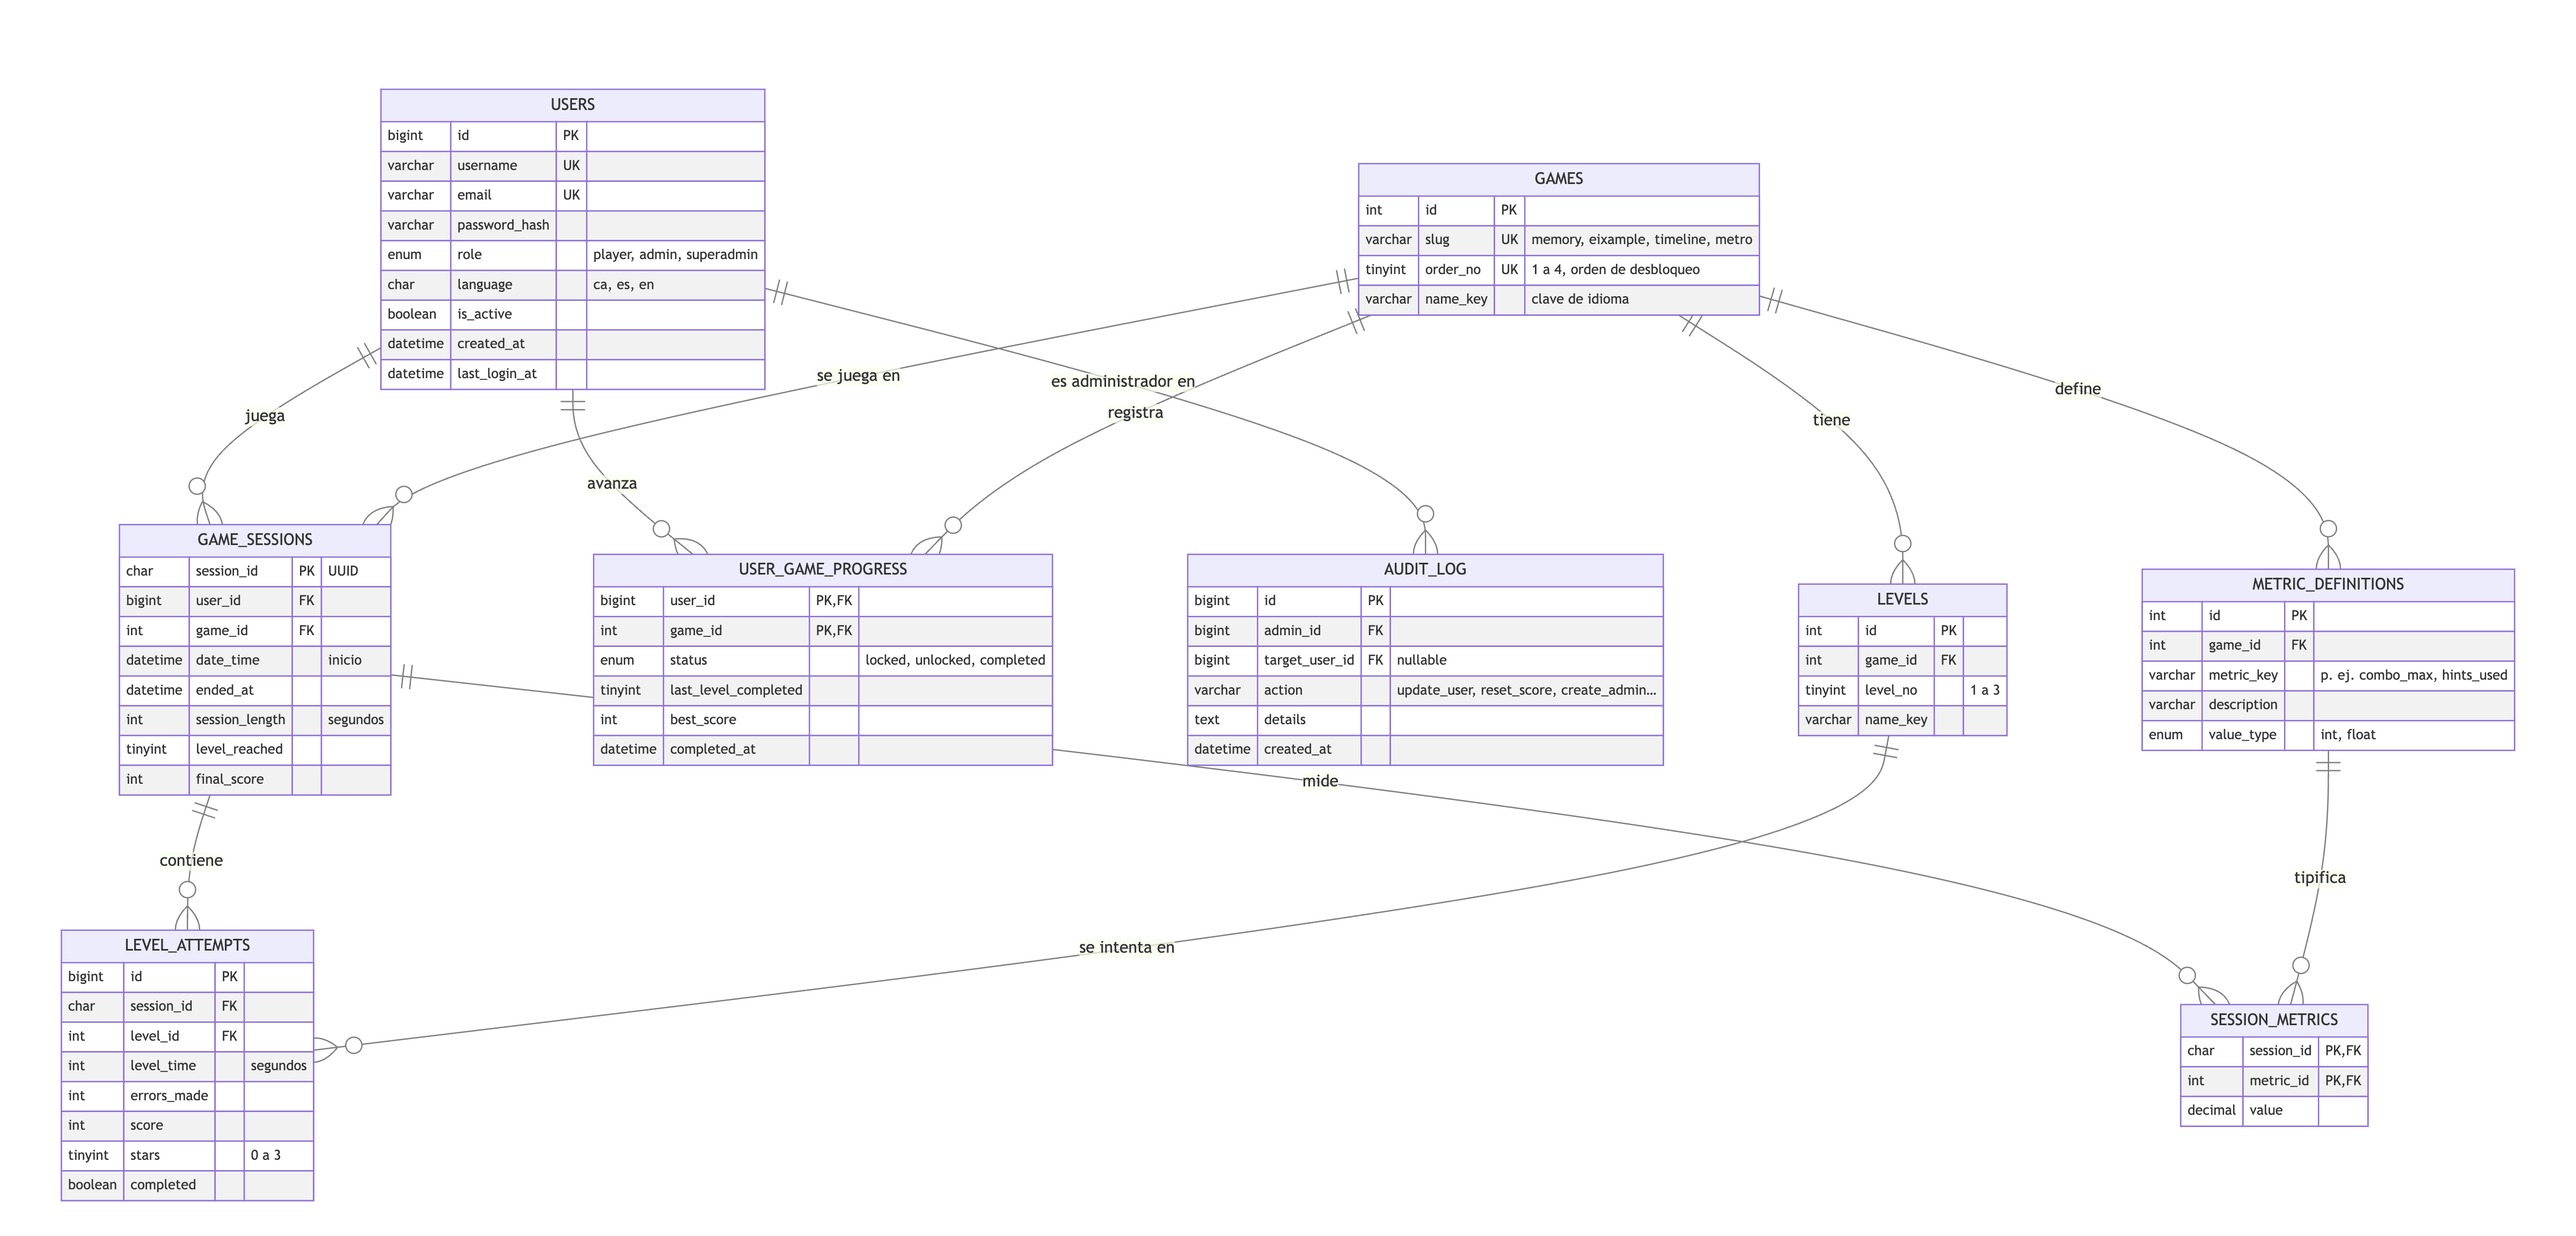
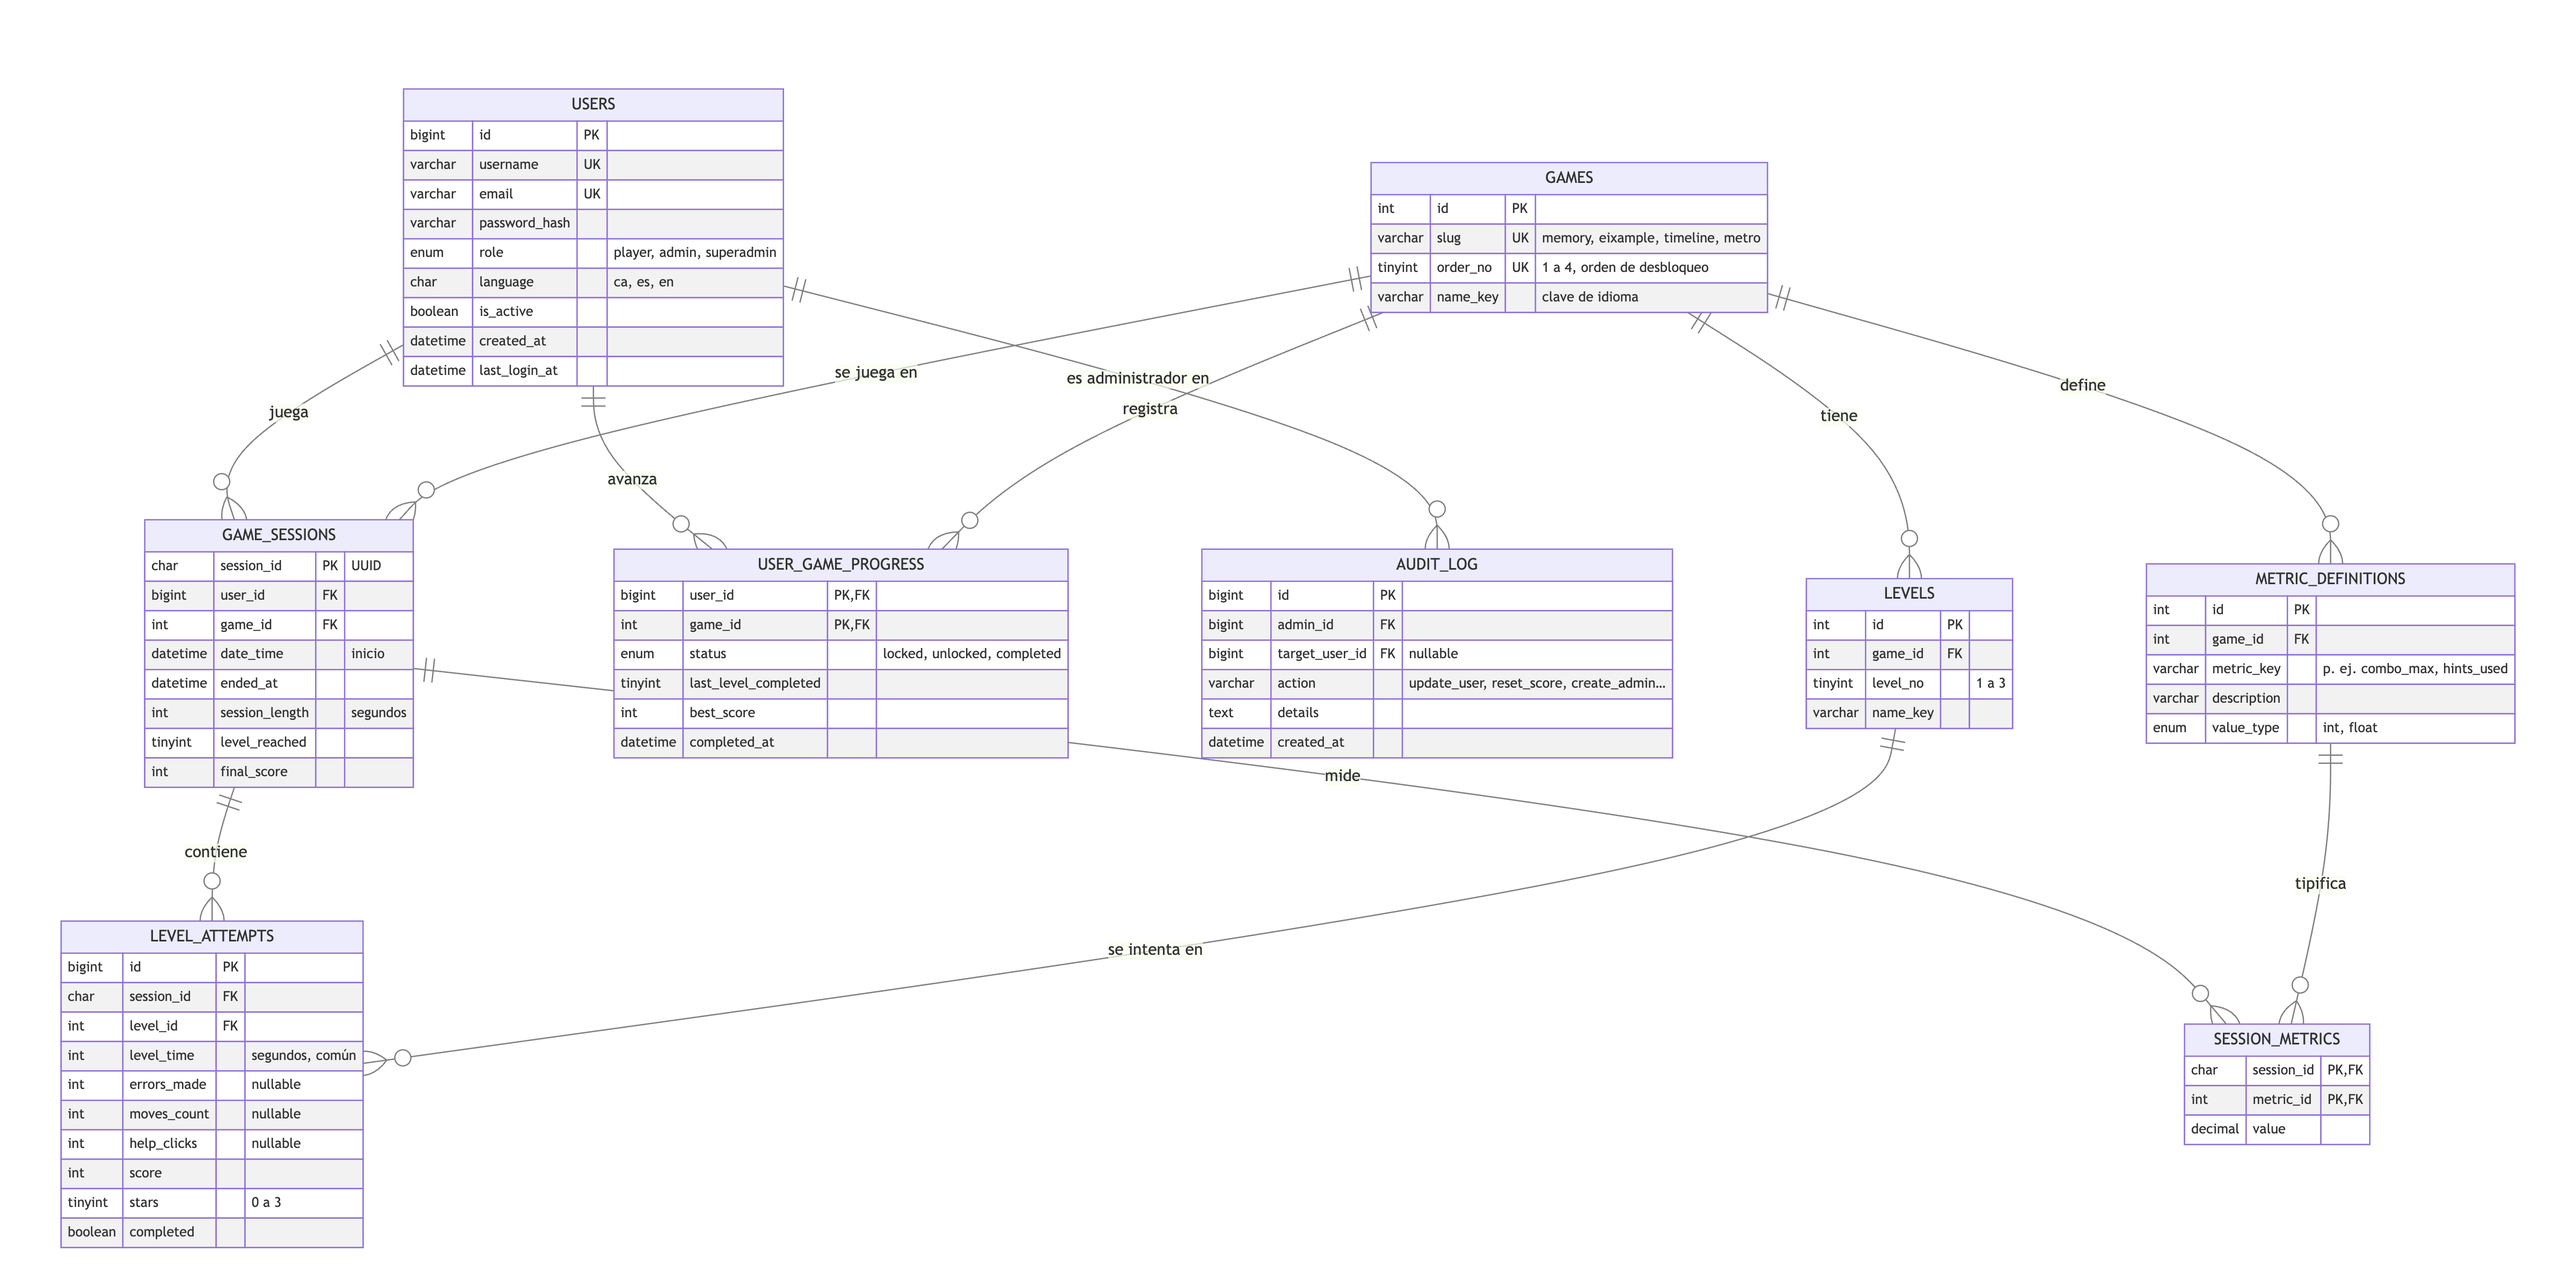
Métricas comunes en la BD común y métricas individuales aparte

diff --git a/docs/modelo-relacional-bd.md b/docs/modelo-relacional-bd.md
@@ -65,8 +65,10 @@ erDiagram
         bigint id PK
         char session_id FK
         int level_id FK
-        int level_time "segundos"
-        int errors_made
+        int level_time "segundos, común"
+        int errors_made "nullable"
+        int moves_count "nullable"
+        int help_clicks "nullable"
         int score
         tinyint stars "0 a 3"
         boolean completed
@@ -101,30 +103,38 @@ erDiagram
 | `levels` | Niveles internos de cada juego (3 por juego) | FK `game_id`; único (`game_id`, `level_no`) |
 | `user_game_progress` | Qué juegos tiene bloqueados, abiertos o superados cada usuario, y por qué nivel va (retomar donde lo dejó) | PK compuesta (`user_id`, `game_id`) |
 | `game_sessions` | Una fila por partida: las 4 métricas obligatorias (`username` sale de `users`, más `session_id`, `date_time`, `session_length`) | PK `session_id` |
-| `level_attempts` | Resultado de cada nivel dentro de una sesión: tiempo, errores, puntos, estrellas | FK `session_id`, `level_id` |
-| `metric_definitions` | Catálogo de métricas propias de cada juego (mínimo 4 por juego) | FK `game_id`; único (`game_id`, `metric_key`) |
-| `session_metrics` | Valor de cada métrica propia en cada sesión | PK compuesta (`session_id`, `metric_id`) |
+| `level_attempts` | **Métricas comunes** de cada nivel dentro de una sesión: tiempo, errores, movimientos, ayudas, puntos y estrellas. Las que un juego no usa quedan a `NULL` | FK `session_id`, `level_id` |
+| `metric_definitions` | Catálogo de las **métricas individuales** que solo tiene un juego | FK `game_id`; único (`game_id`, `metric_key`) |
+| `session_metrics` | Valor de cada métrica individual en cada sesión | PK compuesta (`session_id`, `metric_id`) |
 | `audit_log` | Quién (administrador) cambió qué usuario o puntuación y cuándo | FK `admin_id`, `target_user_id` |
 
+## Métricas: comunes en la BD común, individuales aparte
+Salen de las fichas de cada juego en `propostes/`. Las que se repiten entre juegos van en columnas de tablas comunes; las que solo tiene un juego van en `session_metrics`.
+
+| Métrica | Memory | Eixample | Línea del tiempo | Metro | Dónde va |
+|---|:-:|:-:|:-:|:-:|---|
+| `level_time` | ✔ | ✔ | ✔ | ✔ | `level_attempts` (común) |
+| `level_reached` | ✔ | | | ✔ | `game_sessions` (común; se puede calcular en todos los juegos) |
+| `final_score` | | | ✔ | ✔ | `game_sessions` (común; Memory y Eixample también puntúan) |
+| `errors_made` | ✔ | | ✔ | | `level_attempts` (común, `NULL` si no aplica) |
+| `moves_count` | | ✔ | | ✔ | `level_attempts` (común, `NULL` si no aplica) |
+| `help_clicks` | | ✔ | ✔ (`hints_used`) | ✔ | `level_attempts` (común) |
+| `attempts` | ✔ | | | | `session_metrics` (individual) |
+| `puzzles_solved` | | ✔ | | | `session_metrics` (individual) |
+
+Dos ajustes a hablar con el equipo:
+- **`hints_used` (Raúl) = `help_clicks`** (Roger y Alex): es la misma idea, consultar una ayuda. Propongo usar `help_clicks` en los cuatro para poder compararlos.
+- Cada juego sigue necesitando **al menos 4 métricas propias** además de las 4 de sesión. Con esta estructura se cumple: Memory (`attempts`, `errors_made`, `level_reached`, `level_time`), Eixample (`moves_count`, `help_clicks`, `puzzles_solved`, `level_time`), Línea del tiempo (`errors_made`, `level_time`, `help_clicks`, `final_score`) y Metro (`level_reached`, `level_time`, `moves_count`, `help_clicks`, `final_score`). Si un juego necesita otra (por ejemplo `combo_max` en Memory), se da de alta en `metric_definitions` sin tocar las tablas.
+
 ## Decisiones de diseño
-1. **Métricas propias en filas (`session_metrics`)** y no en columnas. Cada juego tiene métricas distintas (`combo_max`, `hints_used`, `help_clicks`, `moves_count`…) y así no hay una tabla con 20 columnas casi vacías. Para la vista «Mètriques» se puede pasar a formato ancho con un `PIVOT` o con Pandas.
-2. **Métricas comunes** (`level_time`, `level_reached`, `final_score`) como columnas, porque los cuatro juegos las tienen y se consultan siempre.
+1. **Una sola base de datos para los 4 juegos** y las métricas repetidas en columnas de `level_attempts` y `game_sessions`: son las que más se consultan y las que usará la vista «Mètriques» y la simulación en Python. Los `NULL` indican «este juego no mide esto».
+2. **Las métricas individuales en filas (`session_metrics`)**, para no llenar las tablas de columnas que solo usa un juego.
 3. **Récords diarios y semanales** no se guardan: se calculan con consultas sobre `game_sessions` (`MAX(final_score)` por día, semana y juego). Se puede crear una vista.
 4. **Desbloqueo en orden**: se abre el juego `n+1` cuando `user_game_progress` del juego `n` está en `completed`. Al crear un usuario se inserta el juego 1 como `unlocked` y los demás como `locked`.
 5. **Plano de la landing**: las 4 piezas se pintan a partir de `user_game_progress` (una pieza por juego `completed`); no hace falta tabla de piezas.
 6. **Roles**: administrador y superadministrador están en `users.role`. Las comprobaciones de permisos se hacen siempre en el servidor. El superadministrador es el único que puede crear o cambiar usuarios con rol `admin`.
 7. **Auditoría** simple en `audit_log` para poder defender quién modificó puntuaciones.
 8. **Idioma**: `users.language` guarda el idioma elegido; los textos de la interfaz viven en archivos de idioma, no en la BD (`name_key` apunta a esa clave).
-
-## Ejemplo de métricas propias por juego (según las fichas)
-| Juego | `metric_key` |
-|---|---|
-| 1 · Memory | `attempts`, `errors_made`, `level_reached`, `level_time` |
-| 2 · Eixample | `moves_count`, `help_clicks`, `puzzles_solved`, `level_time` |
-| 3 · Línea del tiempo | `errors_made`, `level_time`, `hints_used`, `final_score` |
-| 4 · Metro | `level_reached`, `level_time`, `moves_count`, `help_clicks`, `final_score` |
-
-`[PENDENT]` Decidir qué métricas son comunes (columnas) y cuáles propias (filas): `level_time`, `level_reached` y `final_score` aparecen en casi todos.
 
 ## Por decidir con el equipo
 - ¿Motor definitivo (MySQL o SQL Server)? Cambia solo los tipos.
